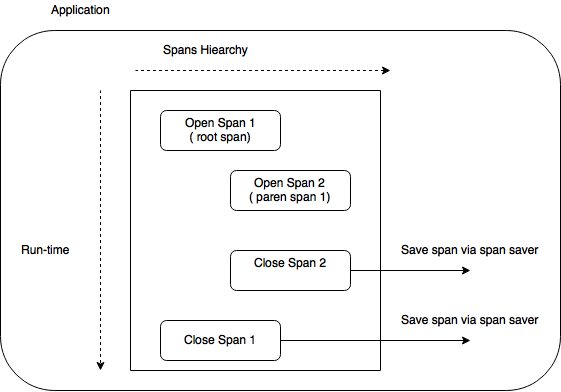
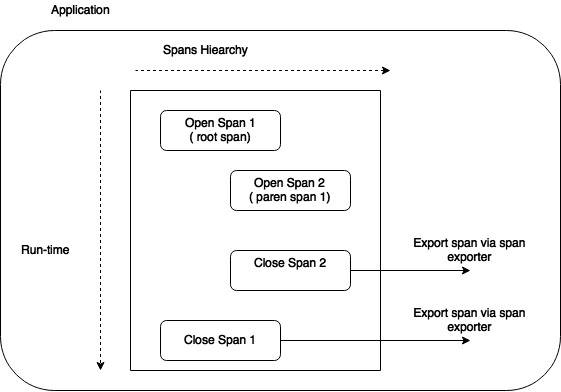
replace remaining saver reference

diff --git a/en/design.tex b/en/design.tex
@@ -255,9 +255,7 @@ Trace context is a class used for storing the information about the current span
 
 Each trace is represented by trace context and is uniquely identified by Universally unique identifier (UUID) of type one\footnote{More UUID versions exist and are created based on different information}. This UUID type combines 48-bit MAC address of the current device with the current timestamp. This way it is ensured that two traces created at the same time on different nodes can't have the same identifier. The identifiers are created in the native agent using C++ library called Sole\footnote{The Sole library is available at \url{https://github.com/r-lyeh/sole} and can be used to create identifiers in C++ language.} and are made available to the Java code via a published native method \texttt{getTypeOneUUID}.
 
-The trace contact has methods \texttt{openNestedSpan} and \texttt{closeCurrentSpan}. The first method is used to create a new nested span and set the newly created span as the current one. Nested span is a span which sets its parent id to the current span. A root span is created in case when no current span exists. The second method is used to close the current span. Closing the span triggers the span exporting operation using the configured span exporter and the parent span becomes the current span.
-
-The Figure \ref{fig:closing_spans} shows how spans are created, closed and saved.  in this chapter. \begin{figure}
+The trace contact has methods \texttt{openNestedSpan} and \texttt{closeCurrentSpan}. The first method is used to create a new nested span and set the newly created span as the current one. Nested span is a span which sets its parent id to the current span. A root span is created in case when no current span exists. The second method is used to close the current span. Closing the span triggers the span exporting operation using the configured span exporter and the parent span becomes the current span. The Figure \ref{fig:closing_spans} shows how spans are created, closed and exporter. \begin{figure}
 	\centering
 	\includegraphics[scale=0.6]{closing_spans.png}
 	\caption{Creating and closing spans.}
